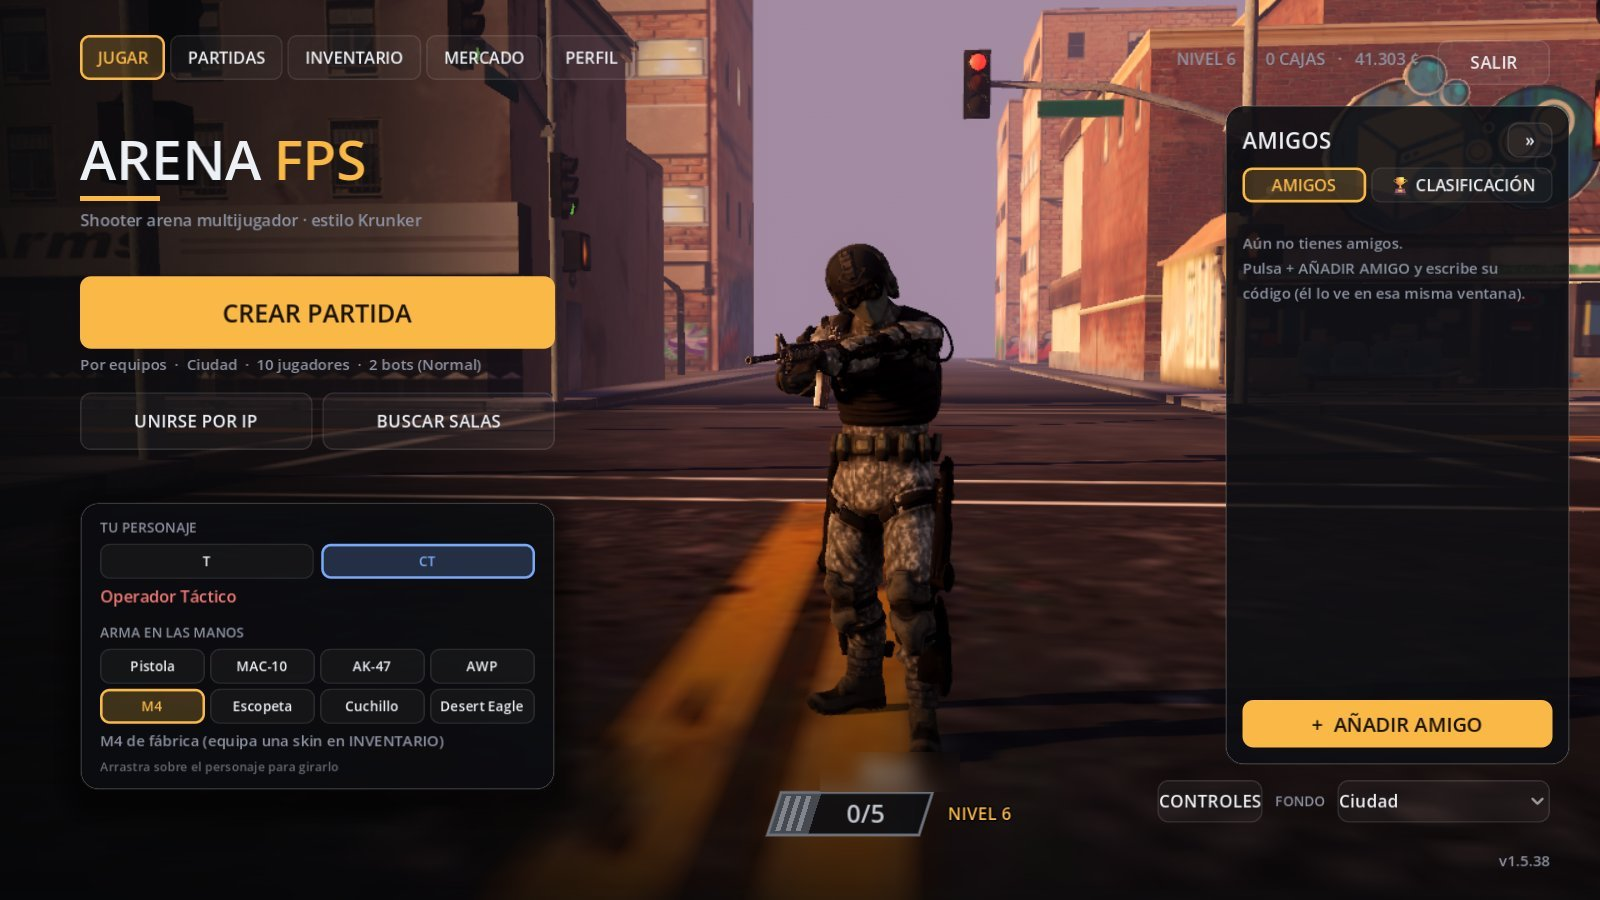
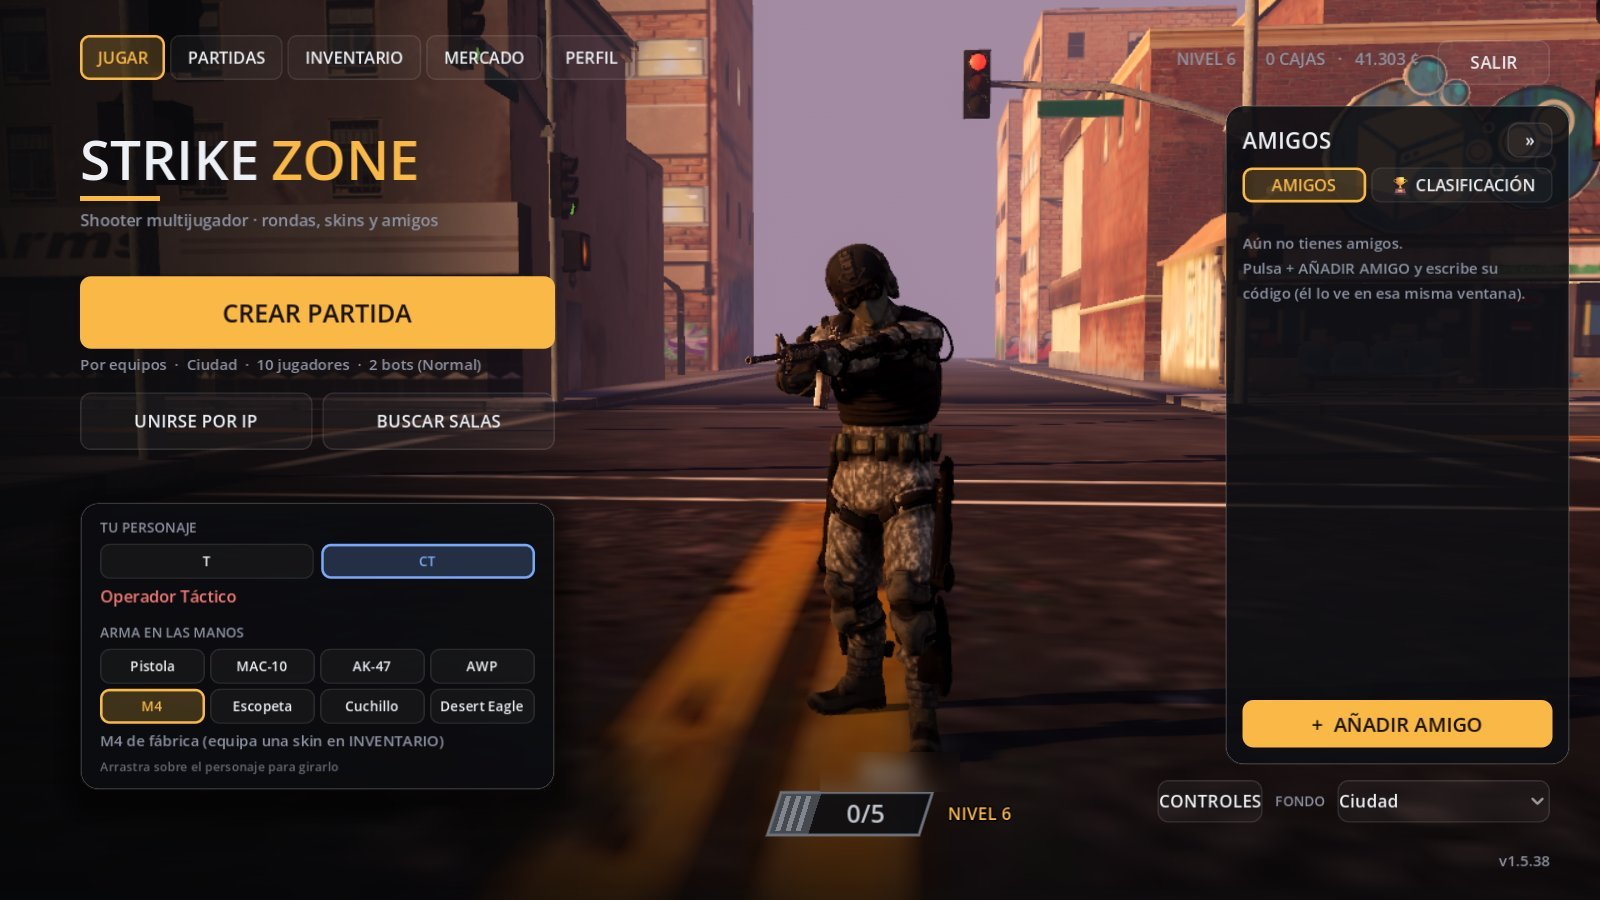
Actualizar página (v1.5.39)

Changed region(s): [[0.0312, 0.1556, 0.2812, 0.2489]]

diff --git a/index.html b/index.html
@@ -3,12 +3,12 @@
 <head>
 <meta charset="utf-8">
 <meta name="viewport" content="width=device-width, initial-scale=1">
-<title>Arena FPS — Descarga</title>
+<title>Strike Zone — Descarga</title>
 <meta name="description" content="Shooter multijugador gratis para Windows: 4 modos, 3 mapas, bots, skins, cajas y chat de voz. Juega con tus amigos por internet sin abrir puertos.">
 <meta name="theme-color" content="#0b0c0f">
 <!-- Tarjeta al compartir el enlace (WhatsApp, Discord, X...) -->
 <meta property="og:type" content="website">
-<meta property="og:title" content="Arena FPS — Descarga gratis">
+<meta property="og:title" content="Strike Zone — Descarga gratis">
 <meta property="og:description" content="Shooter multijugador para jugar con tus amigos: 4 modos, 3 mapas, bots, skins y cajas.">
 <meta property="og:image" content="https://newzile.github.io/arena-fps/img/og.jpg">
 <meta property="og:url" content="https://newzile.github.io/arena-fps/">
@@ -200,7 +200,7 @@
 <body>
 <header class="top">
   <div class="kicker">FPS MULTIJUGADOR · GRATIS · WINDOWS</div>
-  <h1>ARENA <span>FPS</span></h1>
+  <h1>STRIKE <span>ZONE</span></h1>
   <p>Partidas rápidas con tus amigos o contra bots: rifles, francotirador, cuchillos y un modo Bomba al estilo CS.</p>
   <div class="chips">
     <span class="chip">4 modos</span><span class="chip">3 mapas</span><span class="chip">Hasta 16 jugadores</span><span class="chip">Online sin abrir puertos</span>
@@ -217,7 +217,7 @@
       DESCARGAR
     </a>
     <div class="downloads" id="downloads" hidden></div>
-    <div class="small">Descomprime el .zip y abre <code>ArenaFPS.exe</code>. El juego se actualiza solo al abrirlo.</div>
+    <div class="small">Descomprime el .zip y abre <code>StrikeZone.exe</code>. El juego se actualiza solo al abrirlo.<br>¿Venías de <b>Arena FPS</b>? Es el mismo juego con otro nombre: conservas tu perfil y tus skins.</div>
   </section>
 
   <div class="section-title reveal"><h2>Así se ve</h2><p>Capturas del juego</p></div>
@@ -330,7 +330,10 @@
   // versiones publicadas (GitHub Releases) de ese mismo repositorio.
   const owner = location.hostname.split(".")[0];
   const repo = location.pathname.split("/").filter(Boolean)[0] || "";
-  const ASSET = "ArenaFPS.zip";
+  const ASSET = "StrikeZone.zip";
+  const OLD_ASSET = "ArenaFPS.zip"; // versiones de antes del cambio de nombre
+  const isGame = a => a.name === ASSET || a.name === OLD_ASSET;
+  const gameAsset = r => (r.assets || []).find(a => a.name === ASSET) || (r.assets || []).find(a => a.name === OLD_ASSET);
   const SHOWN = 5; // versiones visibles antes de "Ver todas"
   const latestUrl = `https://github.com/${owner}/${repo}/releases/latest/download/${ASSET}`;
   const dl = document.getElementById("download");
@@ -384,7 +387,8 @@
         return;
       }
       const last = releases[0];
-      const asset = (last.assets || []).find(a => a.name === ASSET);
+      const asset = gameAsset(last);
+      if (asset) dl.href = asset.browser_download_url;
       document.getElementById("version").textContent = last.tag_name;
       document.getElementById("meta").textContent =
         `Publicada el ${fmtDate(last.published_at)}` + (asset ? ` · ${(asset.size / 1048576).toFixed(0)} MB` : "") + " · Windows 64 bits";
@@ -392,7 +396,7 @@
       document.getElementById("notes").innerHTML = renderNotes(last.body);
 
       // Descargas de todas las versiones juntas.
-      const total = releases.reduce((n, r) => n + (r.assets || []).filter(a => a.name === ASSET)
+      const total = releases.reduce((n, r) => n + (r.assets || []).filter(isGame)
         .reduce((m, a) => m + (a.download_count || 0), 0), 0);
       if (total > 0) {
         const d = document.getElementById("downloads");
@@ -401,7 +405,7 @@
       }
 
       document.getElementById("history").innerHTML = releases.map((r, i) => {
-        const a = (r.assets || []).find(x => x.name === ASSET);
+        const a = gameAsset(r);
         return `<li${i >= SHOWN ? ' class="extra"' : ""}><div class="row"><span class="v">${esc(r.tag_name)}</span><span class="d">${fmtDate(r.published_at)}</span></div>` +
           (r.body ? `<div class="n">${esc(r.body)}</div>` : "") +
           (a && r !== last ? `<a href="${a.browser_download_url}">Descargar esta versión</a>` : "") + "</li>";

diff --git a/README.md b/README.md
@@ -1,6 +1,6 @@
-# Arena FPS
+# Strike Zone
 
-FPS multijugador estilo Krunker hecho en Godot 4.
+Shooter multijugador hecho en Godot 4 (antes se llamaba Arena FPS).
 
 **Descarga la última versión:** https://newzile.github.io/arena-fps/
 
